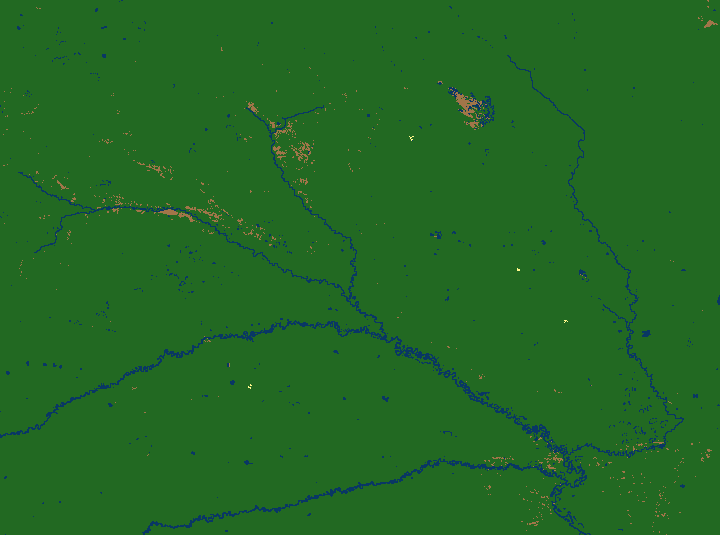
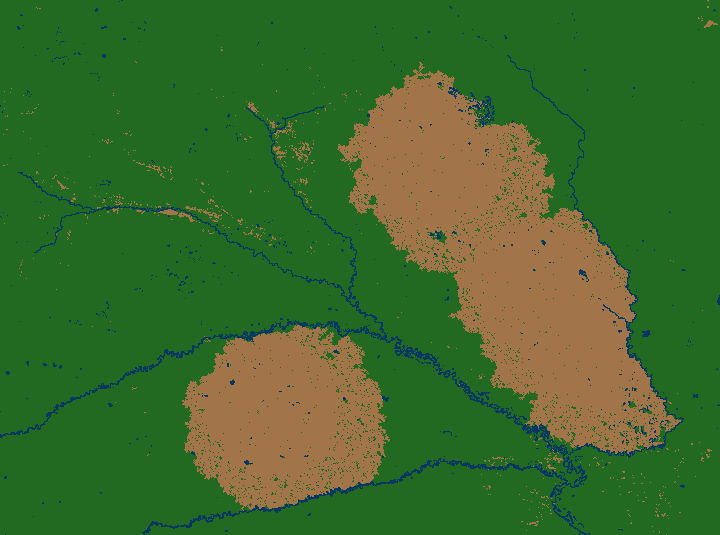
wind-time

Changed region(s): [[0.4583, 0.1196, 0.9472, 0.8673], [0.2444, 0.5981, 0.55, 0.957]]

diff --git a/src/model.py b/src/model.py
@@ -26,19 +26,24 @@ class ForestFireModel:
         width: int,
         height: int,
         grid: np.ndarray,
+        expected_steps: int,
         fire_start: np.ndarray,
+        rain_schedule: list[int],
+        wind_schedule: list[str],
         burning_spread_prob: float = 1.0,
         smoldering_spread_prob: float = 1.0,
         ignition_time: int = 1,
         burning_time: int = 1,
         smoldering_time: int = 1,
-        wind_direction: str | None = None,
         burning_wind_bonus: float = 0.0,
-        smoldering_wind_bonus: float = 0.0
+        smoldering_wind_bonus: float = 0.0,
+        rain_multiplier: float = 0.0,
+        extinguish_probability: float = 0.0
     ):
         self.width = width
         self.height = height
         self.base_grid = grid.copy()
+        self.expected_steps = expected_steps
         self.times = np.zeros((height, width), dtype=np.uint8)
 
         if fire_start is None:
@@ -53,10 +58,18 @@ class ForestFireModel:
         self.burning_time = burning_time
         self.smoldering_time = smoldering_time
 
-        self.wind_direction = wind_direction
+        self.wind_schedule = wind_schedule
+        self.wind_intervals = len(self.wind_schedule)
+
         self.burning_wind_bonus = burning_wind_bonus
         self.smoldering_wind_bonus = smoldering_wind_bonus
 
+        self.rain_schedule = [x == 1 for x in rain_schedule]
+        self.rain_intervals = len(self.rain_schedule)
+        self.rain_multiplier = rain_multiplier
+        self.extinguish_probability = extinguish_probability
+
+        self.incoming_cells = []
         self.reset()
 
     def reset(self):
@@ -65,6 +78,8 @@ class ForestFireModel:
         ignition_mask = (self.fire_start == 1) & (self.grid == TREE)
         self.grid[ignition_mask] = IGNITING
         self.times[ignition_mask] = self.ignition_time
+        self.active_cells = [(y, x) for y, x in np.argwhere(ignition_mask)]
+        self.steps = 0
 
     def neighbors(self, y: int, x: int):
         for dy in (-1, 0, 1):
@@ -83,29 +98,39 @@ class ForestFireModel:
             wind_bonus = self.burning_wind_bonus
         else:
             wind_bonus = self.smoldering_wind_bonus
+
         new_prob = prob
-        if self.wind_direction is not None:
+        
+        if self.wind_direction:
             boosted = WIND_FORWARD_NEIGHBORS.get(self.wind_direction, [])
             if (dy, dx) in boosted:
                 new_prob = min(1.0, prob + wind_bonus)
+        
+        if self.rain_active:
+            new_prob *= self.rain_multiplier
 
         return new_prob
 
     def step(self) -> bool:
-        new_grid = self.grid.copy()
+        if not self.active_cells:
+            return False, self.steps
+        
+        self.rain_active = self.rain_schedule[min(int((self.steps * self.rain_intervals) / self.expected_steps), self.rain_intervals - 1)]
+        self.wind_direction = self.wind_schedule[min(int((self.steps * self.wind_intervals) / self.expected_steps), self.wind_intervals - 1)]
 
-        active_mask = (self.grid == IGNITING) | (self.grid == BURNING) | (self.grid == SMOLDERING)
-
-        if not np.any(active_mask):
-            return False
-
-        for y, x in np.argwhere(active_mask):
+        while self.active_cells:
+            y, x = self.active_cells.pop()
             cell_state = self.grid[y, x]
             if cell_state == IGNITING:
+                if self.rain_active and random.random() < self.extinguish_probability:
+                    self.grid[y, x] = TREE
+                    self.times[y, x] = 0
+                    continue
                 self.times[y, x] -= 1
                 if self.times[y, x] == 0:
-                    new_grid[y, x] = BURNING
+                    self.grid[y, x] = BURNING
                     self.times[y, x] = self.burning_time
+                self.incoming_cells.append((y, x))
             else:
                 if cell_state == BURNING:
                     current_prob = self.burning_spread_prob
@@ -120,14 +145,20 @@ class ForestFireModel:
                     if self.grid[ny, nx] == TREE:
                         adjusted_burning_spread_prob = self.spread_probability_for_offset(dy, dx, current_prob, cell_state)
                         if random.random() < adjusted_burning_spread_prob:
-                            new_grid[ny, nx] = IGNITING
+                            self.grid[ny, nx] = IGNITING
                             self.times[ny, nx] = self.ignition_time
+                            self.incoming_cells.append((ny, nx))
 
                 self.times[y, x] -= 1
                 if self.times[y, x] == 0:
-                    new_grid[y, x] = new_state
+                    self.grid[y, x] = new_state
                     self.times[y, x] = new_time
+                    if new_state != EMPTY:
+                        self.incoming_cells.append((y, x))
+                else:
+                    self.incoming_cells.append((y, x))
         
-        self.grid = new_grid
+        self.active_cells, self.incoming_cells = self.incoming_cells, self.active_cells
+        self.steps += 1
 
-        return True
+        return True, self.steps

diff --git a/src/animation.py b/src/animation.py
@@ -1,10 +1,11 @@
 import sys
 import pygame
-from pathlib import Path
-from model_optimized import ForestFireModel
+import random
+from model import ForestFireModel
 from utils import vegetation_map_to_grid, load_fire_start, save_grid_as_png, COLORS
 from simulation_params import (
     DATA_DIR,
+    EXPECTED_STEPS,
     BURNING_SPREAD_PROB,
     SMOLDERING_SPREAD_PROB,
     IGNITION_TIME,
@@ -12,7 +13,10 @@ from simulation_params import (
     SMOLDERING_TIME,
     BURNING_WIND_BONUS,
     SMOLDERING_WIND_BONUS,
-    WIND_DIRECTION,
+    WIND_SCHEDULE,
+    RAIN_SCHEDULE,
+    RAIN_MULTIPLIER,
+    EXTINGUISH_PROB
 )
 
 OUTPUT_IMAGE_PATH = "yacutz_animation_result.png"
@@ -53,17 +57,23 @@ class SimulationApp:
             width=GRID_WIDTH,
             height=GRID_HEIGHT,
             grid=GRID,
+            expected_steps=EXPECTED_STEPS,
             fire_start=FIRE_START,
+            rain_schedule=RAIN_SCHEDULE,
             burning_spread_prob=BURNING_SPREAD_PROB,
             smoldering_spread_prob=SMOLDERING_SPREAD_PROB,
             ignition_time=IGNITION_TIME,
             burning_time=BURNING_TIME,
             smoldering_time=SMOLDERING_TIME,
-            wind_direction=WIND_DIRECTION,
+            wind_schedule=WIND_SCHEDULE,
             burning_wind_bonus=BURNING_WIND_BONUS,
-            smoldering_wind_bonus=SMOLDERING_WIND_BONUS
+            smoldering_wind_bonus=SMOLDERING_WIND_BONUS,
+            rain_multiplier=RAIN_MULTIPLIER,
+            extinguish_probability=EXTINGUISH_PROB
         )
 
+        self.raindrops = []
+        self.rain_intensity = 0.001
         self.running = True
 
     def draw_grid(self):
@@ -87,18 +97,46 @@ class SimulationApp:
     def update(self):
         now = pygame.time.get_ticks()
         if now - self.last_step_time >= STEP_DELAY_MS:
-            still_burning = self.model.step()
+            still_burning, steps = self.model.step()
             self.last_step_time = now
+
+            if getattr(self.model, "rain_active", False):
+                for _ in range(50):
+                    x = random.randint(0, GRID_WIDTH - 1)
+                    y = 0
+                    self.raindrops.append([x, y])
+
+            for drop in self.raindrops:
+                drop[1] += 1
+
+            self.raindrops = [drop for drop in self.raindrops if drop[1] < GRID_HEIGHT]
 
             if not still_burning:
                 self.render()
                 save_grid_as_png(self.model.grid, OUTPUT_IMAGE_PATH)
                 print(f"Saved final state to: {OUTPUT_IMAGE_PATH}")
+                print(f"Total steps: {steps}")
                 self.running = False
 
     def render(self):
         self.screen.fill((0, 0, 0))
         self.draw_grid()
+
+        # Draw rain if active
+        if getattr(self.model, "rain_active", False):
+            num_rain_drops = int(GRID_WIDTH * GRID_HEIGHT * self.rain_intensity)
+            for _ in range(num_rain_drops):
+                x = random.randint(0, GRID_WIDTH - 1)
+                y = random.randint(0, GRID_HEIGHT - 1)
+                rect = pygame.Rect(
+                    x * CELL_SIZE,
+                    y * CELL_SIZE,
+                    CELL_SIZE,
+                    CELL_SIZE,
+                )
+                pygame.draw.rect(self.screen, (0, 150, 255), rect)
+
+
         pygame.display.flip()
 
     def run(self):

diff --git a/src/headless.py b/src/headless.py
@@ -1,8 +1,8 @@
-from pathlib import Path
-from model_optimized import ForestFireModel
+from model import ForestFireModel
 from utils import vegetation_map_to_grid, load_fire_start, save_grid_as_png
 from simulation_params import (
     DATA_DIR,
+    EXPECTED_STEPS,
     BURNING_SPREAD_PROB,
     SMOLDERING_SPREAD_PROB,
     IGNITION_TIME,
@@ -10,10 +10,13 @@ from simulation_params import (
     SMOLDERING_TIME,
     BURNING_WIND_BONUS,
     SMOLDERING_WIND_BONUS,
-    WIND_DIRECTION,
+    WIND_SCHEDULE,
+    RAIN_SCHEDULE,
+    RAIN_MULTIPLIER,
+    EXTINGUISH_PROB
 )
 
-OUTPUT_IMAGE_PATH = "rhodos_headless_result_optimized.png"
+OUTPUT_IMAGE_PATH = "yacutz_headless_result.png"
 
 GRID = vegetation_map_to_grid(
     DATA_DIR / "vegetation_river_before.png"
@@ -34,25 +37,27 @@ class HeadlessApp:
             width=GRID_WIDTH,
             height=GRID_HEIGHT,
             grid=GRID,
+            expected_steps=EXPECTED_STEPS,
             fire_start=FIRE_START,
+            rain_schedule=RAIN_SCHEDULE,
             burning_spread_prob=BURNING_SPREAD_PROB,
             smoldering_spread_prob=SMOLDERING_SPREAD_PROB,
             ignition_time=IGNITION_TIME,
             burning_time=BURNING_TIME,
             smoldering_time=SMOLDERING_TIME,
-            wind_direction=WIND_DIRECTION,
+            wind_schedule=WIND_SCHEDULE,
             burning_wind_bonus=BURNING_WIND_BONUS,
-            smoldering_wind_bonus=SMOLDERING_WIND_BONUS
+            smoldering_wind_bonus=SMOLDERING_WIND_BONUS,
+            rain_multiplier=RAIN_MULTIPLIER,
+            extinguish_probability=EXTINGUISH_PROB
         )
         self.simulations_ran = 0
 
     def run(self, save_to_image):
         if self.simulations_ran > 0:
             self.model.reset()
-        steps = 0
         while True:
-            still_burning = self.model.step()
-            steps += 1
+            still_burning, steps = self.model.step()
             if not still_burning:
                 self.simulations_ran += 1
                 break

diff --git a/src/simulation_params.py b/src/simulation_params.py
@@ -1,20 +1,29 @@
 from pathlib import Path
 
+# 1 step = 0,25h
+
 #Yacutz
 
 BASE_DIR = Path(__file__).resolve().parent.parent
 DATA_DIR = BASE_DIR / "data" / "yacutz"
 
-BURNING_SPREAD_PROB = 0.018491161871582992
-SMOLDERING_SPREAD_PROB = 0.01603227632492113
+EXPECTED_STEPS = 1000
+
+BURNING_SPREAD_PROB = 0.0028491161871582992
+SMOLDERING_SPREAD_PROB = 0.002603227632492113
 
 IGNITION_TIME = 3
 BURNING_TIME = 4
 SMOLDERING_TIME = 8
 
-BURNING_WIND_BONUS = 0.06003372333657482
-SMOLDERING_WIND_BONUS = 0.03167774310226969
-WIND_DIRECTION = "SE"
+WIND_SCHEDULE = ["SE", "W"]
+BURNING_WIND_BONUS = 0.3003372333657482
+SMOLDERING_WIND_BONUS = 0.167774310226969
+
+RAIN_SCHEDULE = [0, 1, 0, 1, 0]
+
+RAIN_MULTIPLIER = 0.99
+EXTINGUISH_PROB = 0.01
 
 # Rhodos
 

diff --git a/src/tmp.py b/src/tmp.py
@@ -3,7 +3,7 @@ import numpy as np
 from utils import vegetation_map_to_grid, load_fire_start, save_grid_as_png
 import random
 from model import ForestFireModel as ModelOriginal
-from model_optimized import ForestFireModel as ModelOptimized
+from model import ForestFireModel as ModelOptimized
 from simulation_params import (
     DATA_DIR,
     BURNING_SPREAD_PROB,
